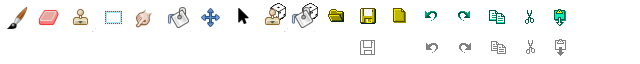
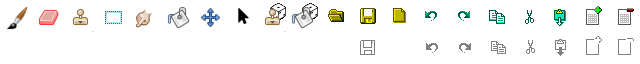
Added 'clean flag' and window title for filename

diff --git a/editor/actions_controller.py b/editor/actions_controller.py
@@ -1,3 +1,5 @@
+from contextlib import contextmanager
+
 import time
 from abc import ABC
 from enum import Enum
@@ -8,7 +10,7 @@ from pygame import Color
 from engine.tmx import TiledMap, TiledObjectGroup, BaseTiledLayer, TiledTileLayer, TiledObject, TiledTileset, TiledElement
 
 
-MAX_UNDO = 20
+MAX_UNDO = 5
 
 
 class ChangeKind(Enum):
@@ -231,6 +233,7 @@ class ActionsController:
         self.element_property_change_callbacks: list[Callable[[TiledElement, ChangeKind, str, Any], None]] = []
 
         self.undo_redo_callbacks: list[Callable[[bool, bool], None]] = []
+        self.clean_flag_callbacks: list[Callable[[bool], None]] = []
 
         self._no_change = NoChange(self)
 
@@ -239,6 +242,7 @@ class ActionsController:
         self.last_change_timestamp = 0.0
         self.changes: list[Change] = []
         self.pointer = 0
+        self.saved_pointer = 0
 
     def notify_add_object_change(self, layer: TiledObjectGroup, obj: TiledObject) -> None:
         for callback in self.add_object_callbacks:
@@ -255,6 +259,10 @@ class ActionsController:
     def notify_element_property_change(self, element: TiledElement, kind: ChangeKind, key: str, value: Any) -> None:
         for callback in self.element_property_change_callbacks:
             callback(element, kind, key, value)
+
+    def notify_clean_flag_change(self, clean_flag: bool) -> None:
+        for callback in self.clean_flag_callbacks:
+            callback(clean_flag)
 
     @property
     def tiled_map(self) -> TiledMap:
@@ -326,26 +334,49 @@ class ActionsController:
         for callback in self.current_tileset_callbacks:
             callback(current_tileset)
 
+    def mark_saved(self) -> None:
+        if self.pointer != self.saved_pointer:
+            self.saved_pointer = self.pointer
+            self.notify_clean_flag_change(True)
+
+    @contextmanager
+    def with_clean_flag(self) -> None:
+        clean_flag = self.pointer == self.saved_pointer
+        try:
+            yield
+        finally:
+            new_clean_flag = self.pointer == self.saved_pointer
+            if new_clean_flag != clean_flag:
+                self.notify_clean_flag_change(new_clean_flag)
+
     def _add_change(self, change: Change) -> None:
-        self.fix_change()
+        with self.with_clean_flag():
+            self.fix_change()
 
-        if self.pointer < len(self.changes):
-            del self.changes[self.pointer:]
-        if len(self.changes) > MAX_UNDO:
-            del self.changes[0]
-        # print(f"Added change for {change.kind}")
-        previous = None if len(self.changes) == 0 else self.changes[-1]
-        previous = previous if previous is not None and previous.kind == change.kind else None
-        change.prepare(previous)
-        self.changes.append(change)
-        self.pointer = len(self.changes)
+            if self.pointer < len(self.changes):
+                del self.changes[self.pointer:]
+                if self.saved_pointer > self.pointer:
+                    self.saved_pointer = -1
+                    self.notify_clean_flag_change(False)
+            if len(self.changes) > MAX_UNDO:
+                del self.changes[0]
+                self.pointer -= 1
+                self.saved_pointer -= 1
+                if self.pointer <= 0:
+                    self.pointer = 0
+            # print(f"Added change for {change.kind}")
+            previous = None if len(self.changes) == 0 else self.changes[-1]
+            previous = previous if previous is not None and previous.kind == change.kind else None
+            change.prepare(previous)
+            self.changes.append(change)
+            self.pointer = len(self.changes)
 
-        self.current_unfixed_change = change if not change.fixed else None
-        self.change_kind = ChangeKind.NONE if self.current_unfixed_change is None else change.kind
-        # print(f"New change {change.kind} {len(self.changes)} ptr {self.pointer}, unfixed={'' if self.current_unfixed_change is None else self.current_unfixed_change.kind}")
+            self.current_unfixed_change = change if not change.fixed else None
+            self.change_kind = ChangeKind.NONE if self.current_unfixed_change is None else change.kind
+            # print(f"New change {change.kind} {len(self.changes)} ptr {self.pointer}, unfixed={'' if self.current_unfixed_change is None else self.current_unfixed_change.kind}")
 
-        for callback in self.undo_redo_callbacks:
-            callback(self.pointer > 0, False)
+            for callback in self.undo_redo_callbacks:
+                callback(self.pointer > 0, False)
 
     def action_tick(self) -> None:
         if self.change_kind.cumulative and self.last_change_timestamp + 2 < time.time():
@@ -360,33 +391,37 @@ class ActionsController:
         self.change_kind = ChangeKind.NONE
 
     def undo(self) -> None:
-        if self.pointer > 0:
-            if not self.changes[self.pointer - 1].fixed:
-                self.changes[self.pointer - 1].fix()
+        with self.with_clean_flag():
+            if self.pointer > 0:
+                if not self.changes[self.pointer - 1].fixed:
+                    self.changes[self.pointer - 1].fix()
 
-            self.pointer -= 1
-            self.changes[self.pointer].undo()
-            # print(f"Undo change {self.changes[self.pointer].kind} {len(self.changes)} ptr {self.pointer}, unfixed={'' if self.current_unfixed_change is None else self.current_unfixed_change.kind}")
-            for callback in self.undo_redo_callbacks:
-                callback(self.pointer > 0, self.pointer < len(self.changes))
-        self.change_kind = ChangeKind.NONE
+                self.pointer -= 1
+                self.changes[self.pointer].undo()
+                # print(f"Undo change {self.changes[self.pointer].kind} {len(self.changes)} ptr {self.pointer}, unfixed={'' if self.current_unfixed_change is None else self.current_unfixed_change.kind}")
+                for callback in self.undo_redo_callbacks:
+                    callback(self.pointer > 0, self.pointer < len(self.changes))
+            self.change_kind = ChangeKind.NONE
 
     def redo(self) -> None:
-        self.fix_change()
+        with self.with_clean_flag():
+            self.fix_change()
 
-        if self.pointer < len(self.changes):
-            self.changes[self.pointer].redo()
-            self.pointer += 1
-            # print(f"Redo change {self.changes[self.pointer - 1].kind} {len(self.changes)} ptr {self.pointer}, unfixed={'' if self.current_unfixed_change is None else self.current_unfixed_change.kind}")
-            for callback in self.undo_redo_callbacks:
-                callback(self.pointer > 0, self.pointer < len(self.changes))
-        self.change_kind = ChangeKind.NONE
+            if self.pointer < len(self.changes):
+                self.changes[self.pointer].redo()
+                self.pointer += 1
+                # print(f"Redo change {self.changes[self.pointer - 1].kind} {len(self.changes)} ptr {self.pointer}, unfixed={'' if self.current_unfixed_change is None else self.current_unfixed_change.kind}")
+                for callback in self.undo_redo_callbacks:
+                    callback(self.pointer > 0, self.pointer < len(self.changes))
+            self.change_kind = ChangeKind.NONE
 
     def reset_undo_buffer(self) -> None:
-        del self.changes[:]
-        self.pointer = 0
-        self.current_unfixed_change = None
-        self.change_kind = ChangeKind.NONE
+        with self.with_clean_flag():
+            del self.changes[:]
+            self.pointer = 0
+            self.saved_pointer = -1
+            self.current_unfixed_change = None
+            self.change_kind = ChangeKind.NONE
 
     # Actions
 

diff --git a/editor.py b/editor.py
@@ -18,7 +18,7 @@ from editor.hierarchy import Hierarchy
 from editor.properties import Properties
 from editor.pygame_components import ComponentCollection
 from editor.map_controller import MapController
-from editor.tileset_controller import TilesetController
+from editor.tileset_controller import TilesetController, TilesetActionsPanel
 from editor.toolbar_panel import ToolbarPanel
 from engine.tmx import TiledMap, TiledElement, TiledTileset, BaseTiledLayer, TiledObject, TiledObjectGroup
 
@@ -114,12 +114,19 @@ class Editor:
         self.actions_controller.element_property_change_callbacks.append(self._element_property_change_callback)
         self.actions_controller.add_object_callbacks.append(self._object_added_callback)
         self.actions_controller.delete_object_callbacks.append(self._object_deleted_callback)
+        self.actions_controller.clean_flag_callbacks.append(self._clean_flag_callback)
 
         toolbar_height = image_size + margin * 2
         self.tileset_controller = TilesetController(
             Rect(right_column, toolbar_height, 300, 500), None,
             self.actions_controller,
             self._tile_selected_callback
+        )
+        self.tileset_actions_toolbar = TilesetActionsPanel(
+            Rect(right_column, self.tileset_controller.rect.bottom + 10, 300, 32),
+            self.icon_surface,
+            self._add_tileset_action,
+            self._remove_tileset_action
         )
         self.map_controller = MapController(
             # Rect(0, 0, right_column, self.viewport.height),
@@ -132,13 +139,14 @@ class Editor:
             self._object_selected_callback,
             self._selection_changed_callback
         )
-        #
-        # self.map_action_panel.visible = False
-        # self.map_action_panel.action = MapAction.BRUSH_TILE
 
         self.components = ComponentCollection(
             self.viewport,
-            self.toolbar, self.map_controller, self.tileset_controller)
+            self.toolbar,
+            self.map_controller,
+            self.tileset_controller,
+            self.tileset_actions_toolbar
+        )
 
         self.key_modifier = 0
         self.mouse_x = 0
@@ -251,6 +259,15 @@ class Editor:
         # TODO do we want to have it exposed in properties (hierarchy)?
         self.map_controller.tile_selection_changed()
 
+    def _clean_flag_callback(self, clean_flag) -> None:
+        if self._tiled_map is not None and self._tiled_map.filename is not None and self._tiled_map.filename != "":
+            filename = os.path.split(self._tiled_map.filename)[-1]
+            pygame.display.set_caption(f"{'' if clean_flag else '* '} {filename}")
+        else:
+            pygame.display.set_caption("Editor")
+
+        self._save_map_button.disabled = clean_flag
+
     def _quit_action(self, _event=None) -> None:
         self.running = False
         pygame.quit()  # destroy pygame window
@@ -274,6 +291,9 @@ class Editor:
             self.hierarchy_view.set_map(self._tiled_map)
             self.hierarchy_view.selected_object = tileset
 
+    def _remove_tileset_action(self) -> None:
+        print(f"Calculate removing tileset")
+
     def _load_file_action(self) -> None:
         filename = filedialog.askopenfilename(title="Open file", filetypes=(("Map file", "*.tmx"), ("Tileset file", "*.tsx")))
         if filename != "":
@@ -284,6 +304,9 @@ class Editor:
             self._save_as_map_action()
         else:
             self._tiled_map.save(self._tiled_map.filename)
+            filename = os.path.split(self._tiled_map.filename)[-1]
+            pygame.display.set_caption(filename)
+            self.actions_controller.mark_saved()
 
     def _save_as_map_action(self, _event=None) -> None:
         filename = filedialog.asksaveasfilename(title="Save map", filetypes=(("Map file", "*.tmx"),))
@@ -368,6 +391,10 @@ class Editor:
             self.run_menu.entryconfig(1, label=f"Run '{map_name}'", state="normal")
         else:
             self.run_menu.entryconfig(1, label=f"Run", state="normal")
+
+        filename = os.path.split(self._tiled_map.filename)[-1]
+        pygame.display.set_caption(filename)
+        self.actions_controller.mark_saved()
 
     def run_map(self) -> None:
         if "code" in self._tiled_map.properties:
@@ -546,8 +573,6 @@ class Editor:
         self.screen = pygame.display.set_mode((1150, 900))
         self.screen_rect = self.screen.get_rect()
         pygame.display.set_caption("Editor")
-
-        pygame.display.set_caption("Editor Window")
 
     def pygame_loop(self) -> None:
         control_modifier = pygame.KMOD_META if self.macos else pygame.KMOD_CTRL

diff --git a/engine/tmx.py b/engine/tmx.py
@@ -422,7 +422,7 @@ class TiledTileLayer(BaseTiledLayer):
         elif encoding == "csv":
             data = [int(i) for i in data_node.text.split(",")]
         else:
-            raise NotImplemented(f"Unknown encoding for data {encoding}")
+            raise NotImplementedError(f"Unknown encoding for data {encoding}")
 
         columns = int(self.width)
         for i in range(len(data)):
@@ -434,10 +434,14 @@ class TiledTileLayer(BaseTiledLayer):
 
     def _sub_xml(self, stream, indent: int, close_tag: bool) -> bool:
         close_tag = self._close_tag(stream, close_tag)
+        # encoding = self.original_encoding
+        encoding = "base64"
+        # compression = self.original_compression
+        compression = None
 
         stream.write(" " * indent)
-        stream.write(f"<data encoding=\"{self.original_encoding}\"")
-        if self.original_compression is not None:
+        stream.write(f"<data encoding=\"{encoding}\"")
+        if compression is not None:
             stream.write(f" compression=\"{self.original_compression}\"")
 
         stream.write(">\n")

diff --git a/editor/tileset_controller.py b/editor/tileset_controller.py
@@ -5,7 +5,20 @@ from pygame import Rect, Surface
 
 from editor.actions_controller import ActionsController
 from editor.pygame_components import ScrollableCanvas
+from editor.toolbar_panel import ToolbarPanel
 from engine.tmx import TiledTileset
+
+
+class TilesetActionsPanel(ToolbarPanel):
+    def __init__(self,
+                 rect: Rect,
+                 icon_surface: Surface,
+                 add_tileset_callback: Callable[[], None],
+                 remove_tileset_callback: Callable[[], None]) -> None:
+        super().__init__(rect, icon_surface=icon_surface)
+
+        self.add_tileset_button = self.add_button(18, 38, add_tileset_callback)
+        self.remove_tileset_button = self.add_button(19, 39, remove_tileset_callback)
 
 
 class TilesetController(ScrollableCanvas):
